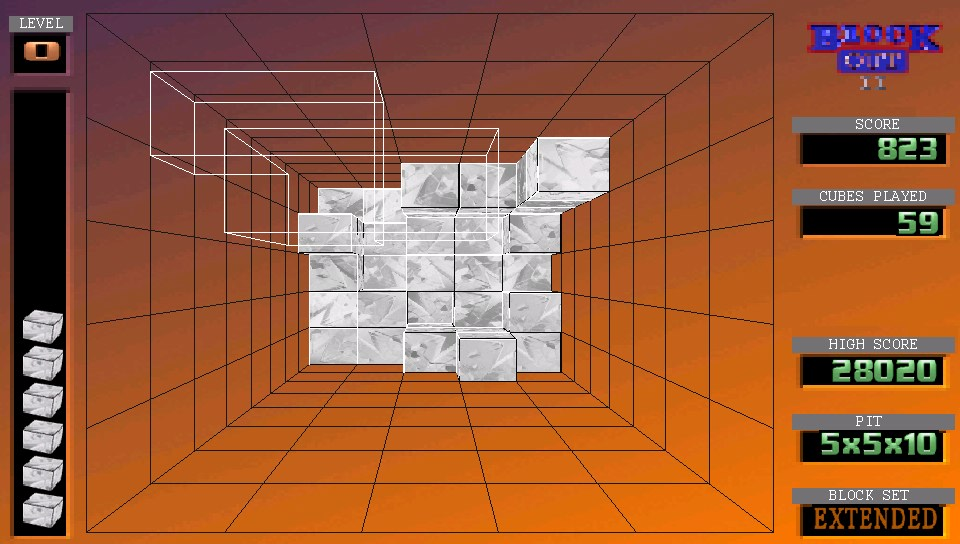
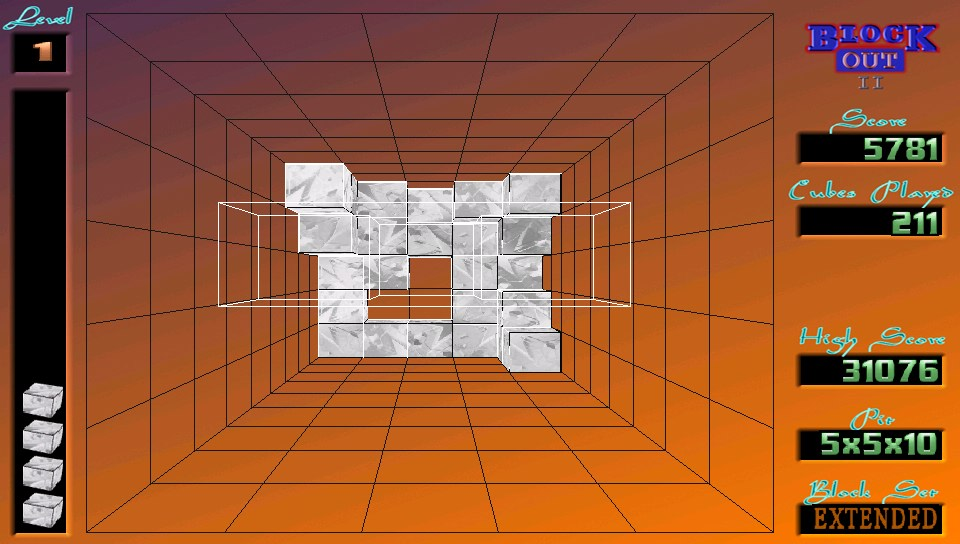
backgroung images correction

diff --git a/BlockOut/Game.cpp b/BlockOut/Game.cpp
@@ -56,6 +56,37 @@ const float dropTime = 0.16f;
 // Spark time
 const float sparkTime = 0.5f;
 
+#ifdef PLATFORM_PSVITA
+#include <CImage.h>
+#define RGB24_TO_RGB16(r, g, b) \
+    ((((r) >> 3) << 11) | (((g) >> 2) << 5) | ((b) >> 3))
+
+BYTE imageBuff[960 * 544 * 3];
+
+void Game::LoadBackground(char * path) {
+    CImage img;
+
+    if( !img.LoadImage(path) ) {
+      printf("Failed to load %s\n", path);
+    }
+
+    int fWidth  = img.Width();
+    int fHeight = img.Height();
+
+    BYTE *data   = img.GetData();
+
+    for(int y=0;y<fHeight;y++) {
+      for(int x=0;x<fWidth;x++) {
+        imageBuff[x*3 + 0 + y*3*fWidth] = data[x*3+2 + y*3*fWidth];
+        imageBuff[x*3 + 1 + y*3*fWidth] = data[x*3+1 + y*3*fWidth];
+        imageBuff[x*3 + 2 + y*3*fWidth] = data[x*3+0 + y*3*fWidth];
+      }
+    }
+
+    img.Release();
+}
+#endif
+
 // ---------------------------------------------------------------------
 
 
@@ -153,6 +184,7 @@ int Game::Create(int width,int height) {
     int hr;
     switch(style) {
 #ifndef PLATFORM_PSP
+      #ifndef PLATFORM_PSVITA
       case STYLE_CLASSIC:
         hr = background.RestoreDeviceObjects(STR("images/background.png"),STR("none"),width,height);
         break;
@@ -160,8 +192,19 @@ int Game::Create(int width,int height) {
         hr = background.RestoreDeviceObjects(STR("images/background2.png"),STR("none"),width,height);
         break;
       case STYLE_ARCADE:
-        hr = background.RestoreDeviceObjects(STR("images.psvita/background3.png"),STR("none"),width,height);
+        hr = background.RestoreDeviceObjects(STR("images/background3.png"),STR("none"),width,height);
         break;
+      #else
+      case STYLE_CLASSIC:
+        LoadBackground(STR("app0:/images.psvita/background.png"));
+        break;
+      case STYLE_MARBLE:
+        LoadBackground(STR("app0:/images.psvita/background2.png"));
+        break;
+      case STYLE_ARCADE:
+        LoadBackground(STR("app0:/images.psvita/background3.png"));
+        break;
+      #endif
 #else
       case STYLE_CLASSIC:
         hr = background.RestoreDeviceObjects(STR("images.psp/background.png"),STR("none"),width,height);
@@ -177,11 +220,10 @@ int Game::Create(int width,int height) {
 
 #ifndef PLATFORM_PSVITA
     background.UpdateSprite(0,0,width,height,0.0f,0.0f,1.0f,0.75f);
+    if(!hr) return GL_FAIL;
 #else
     background.UpdateSprite(-1, -1, 1, 1, 0.0f, 0.75f, 1.0f, 0.0f);
 #endif
-
-    if(!hr) return GL_FAIL;
 
     // --------------------------------------------------------------
 
@@ -230,16 +272,21 @@ void Game::Render() {
 
     glDisable(GL_DEPTH_TEST);
     glViewport(spriteView.x,spriteView.y,spriteView.width,spriteView.height);
+#if !defined(PLATFORM_PSVITA)
     background.Render();
+#else
+    unsigned short * fb = (unsigned short *) vglGetFramebuffer();
+
+    for(int y=0;y<544;y++) {
+      for(int x=0;x<960;x++) {
+        fb[x + y*960] = RGB24_TO_RGB16((imageBuff[x*3 + 0 + y*3*960]),
+                                       (imageBuff[x*3 + 1 + y*3*960]),
+                                       (imageBuff[x*3 + 2 + y*3*960]));
+      }
+    }
+#endif
 
 #if defined(PLATFORM_PSVITA)
-    pFont->DrawText( 10,  34,           " LEVEL ");
-    pFont->DrawText( 793,  235,         "       SCORE      ");
-    pFont->DrawText( 793,  380,         "   CUBES PLAYED   ");
-    pFont->DrawText( 793,  676,         "    HIGH SCORE    ");
-    pFont->DrawText( 793,  830,         "       PIT        ");
-    pFont->DrawText( 793,  977,         "    BLOCK SET     ");
-
     glClear( GL_DEPTH_BUFFER_BIT );
 #endif
 

diff --git a/BlockOut/Game.h b/BlockOut/Game.h
@@ -206,5 +206,7 @@ class Game {
     void StartSpark(BLOCKITEM *pos);
     void RenderPracticeHelp();
     void ComputeHelp();
-
+#ifdef PLATFORM_PSVITA
+    void LoadBackground(char * path);
+#endif
 };
